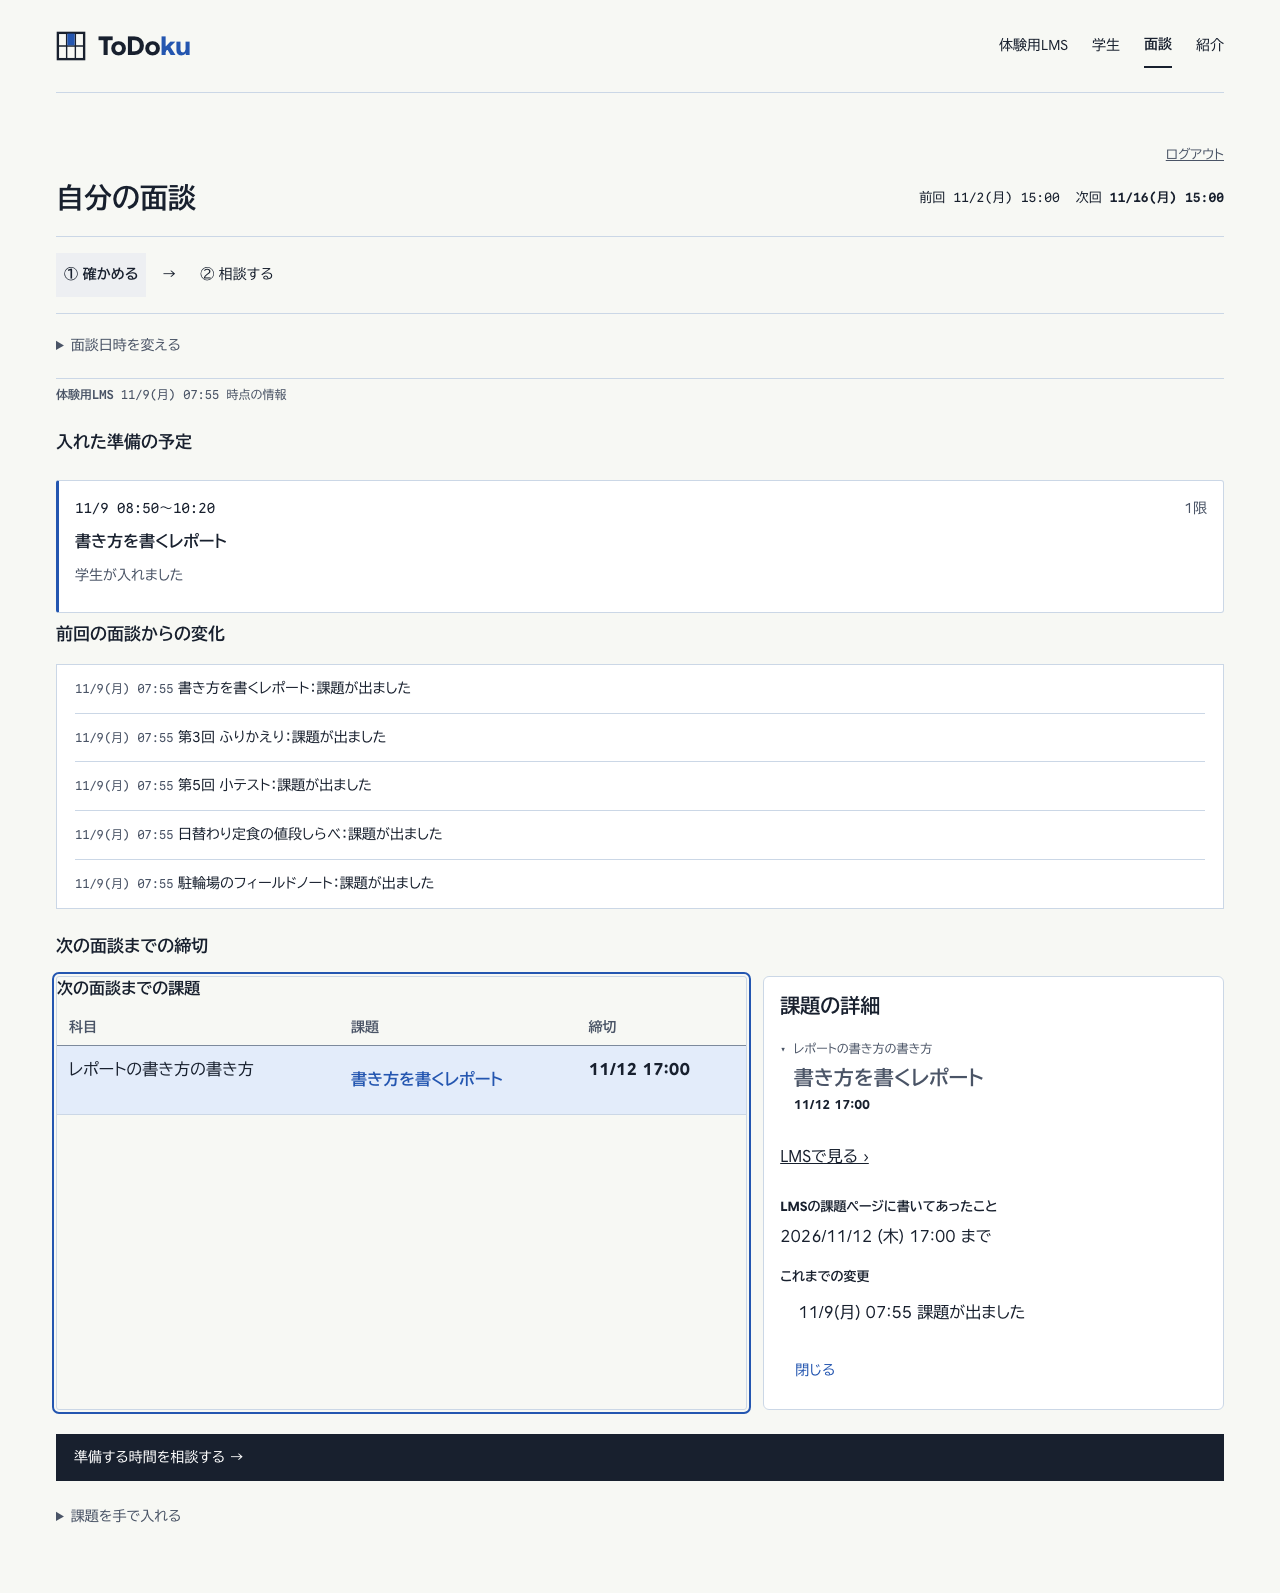
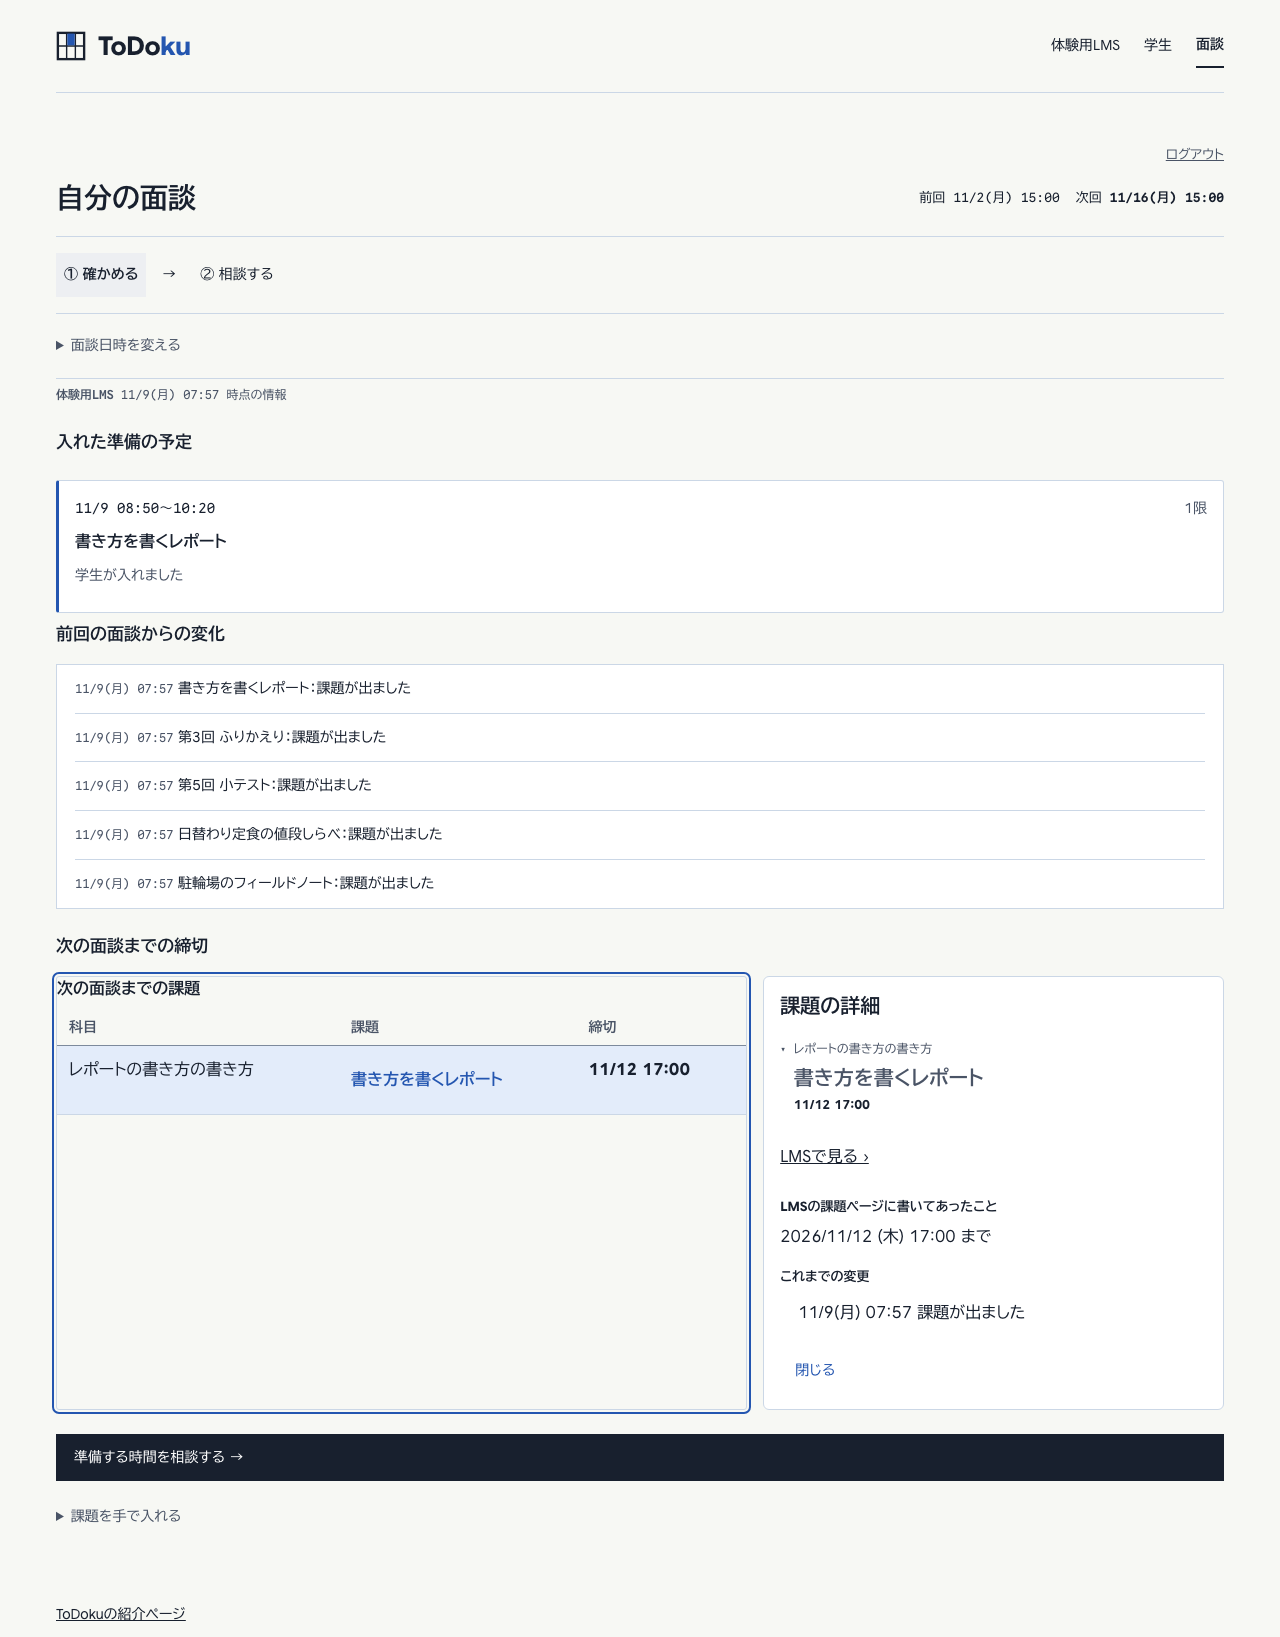
chore(web): integrate landing navigation and refresh screen evidence

diff --git a/packages/web/src/app.tsx b/packages/web/src/app.tsx
@@ -31,7 +31,6 @@ function Route({ path }: { path: string }) {
           <a href="/demo-lms" aria-current={path === '/demo-lms' ? 'page' : undefined}>体験用LMS</a>
           <a href="/student" aria-current={path === '/student' || path === '/student/plan' ? 'page' : undefined}>学生</a>
           <a href="/session" aria-current={session ? 'page' : undefined}>面談</a>
-          <a href="/">紹介</a>
         </nav>
       </header>
       <main>

diff --git a/docs/ui-words.md b/docs/ui-words.md
@@ -58,5 +58,4 @@
 - 処理中の操作は、回転する印と「保存中…」「確認中…」などのラベルで示し、終わるまで再度押せないようにする。
 - 3秒と10秒を過ぎたら、処理の内容と待機の状態を1行で示す。進んだ割合や完了時刻は推測しない。動きを減らす設定でも、状態を示す文字は出す。
 - 共通部品の提出済みは既定で「出せました」、締切後は「締切を過ぎています」。普段の課題の行には「まだ」を足さない。締切を読めなかった状態と、締切の日付だけが分かる状態を区別する。
-
 - 学生・面談ではLMSと準備の用語説明を繰り返さず、横スクロールは表の端の影で示す。

diff --git a/docs/records/2026-11-09-issue-226.md b/docs/records/2026-11-09-issue-226.md
@@ -1,6 +1,6 @@
 # Issue #226 の確認（2026-11-09）
 
-学生・面談・メール見本を共通部品へ移行。mainのPR #230を取り込んだ状態で確認した。API・保存形式・依存は変えていない。
+学生・面談・メール見本を共通部品へ移行。mainのPR #230・#231を取り込んだ状態で確認した。API・保存形式・依存は変えていない。
 
 ## 検証
 
